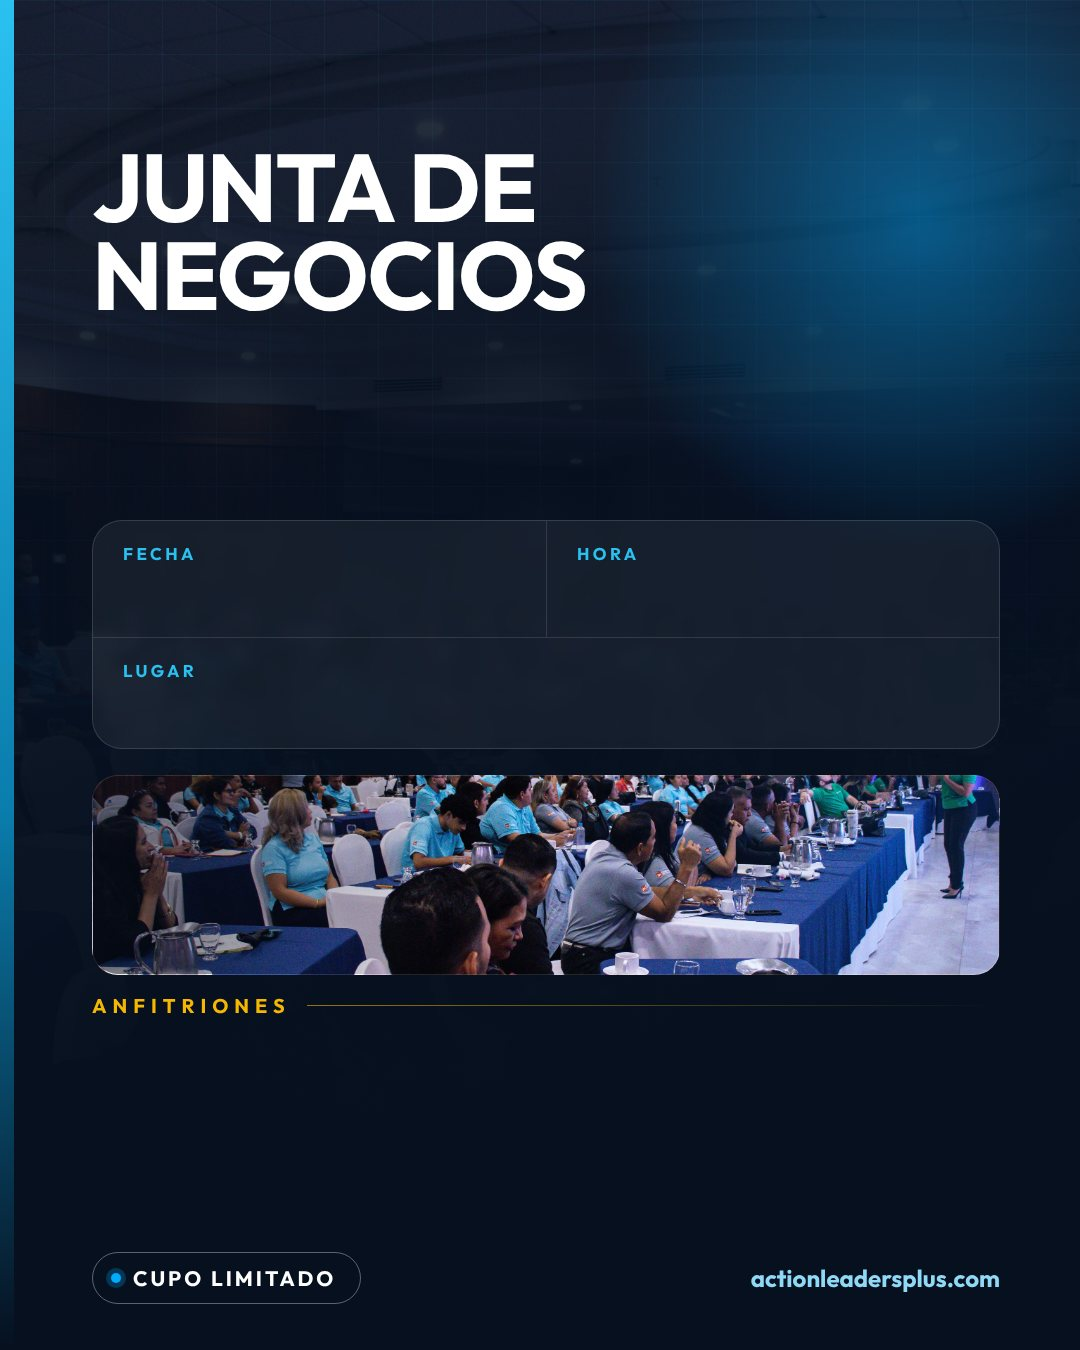
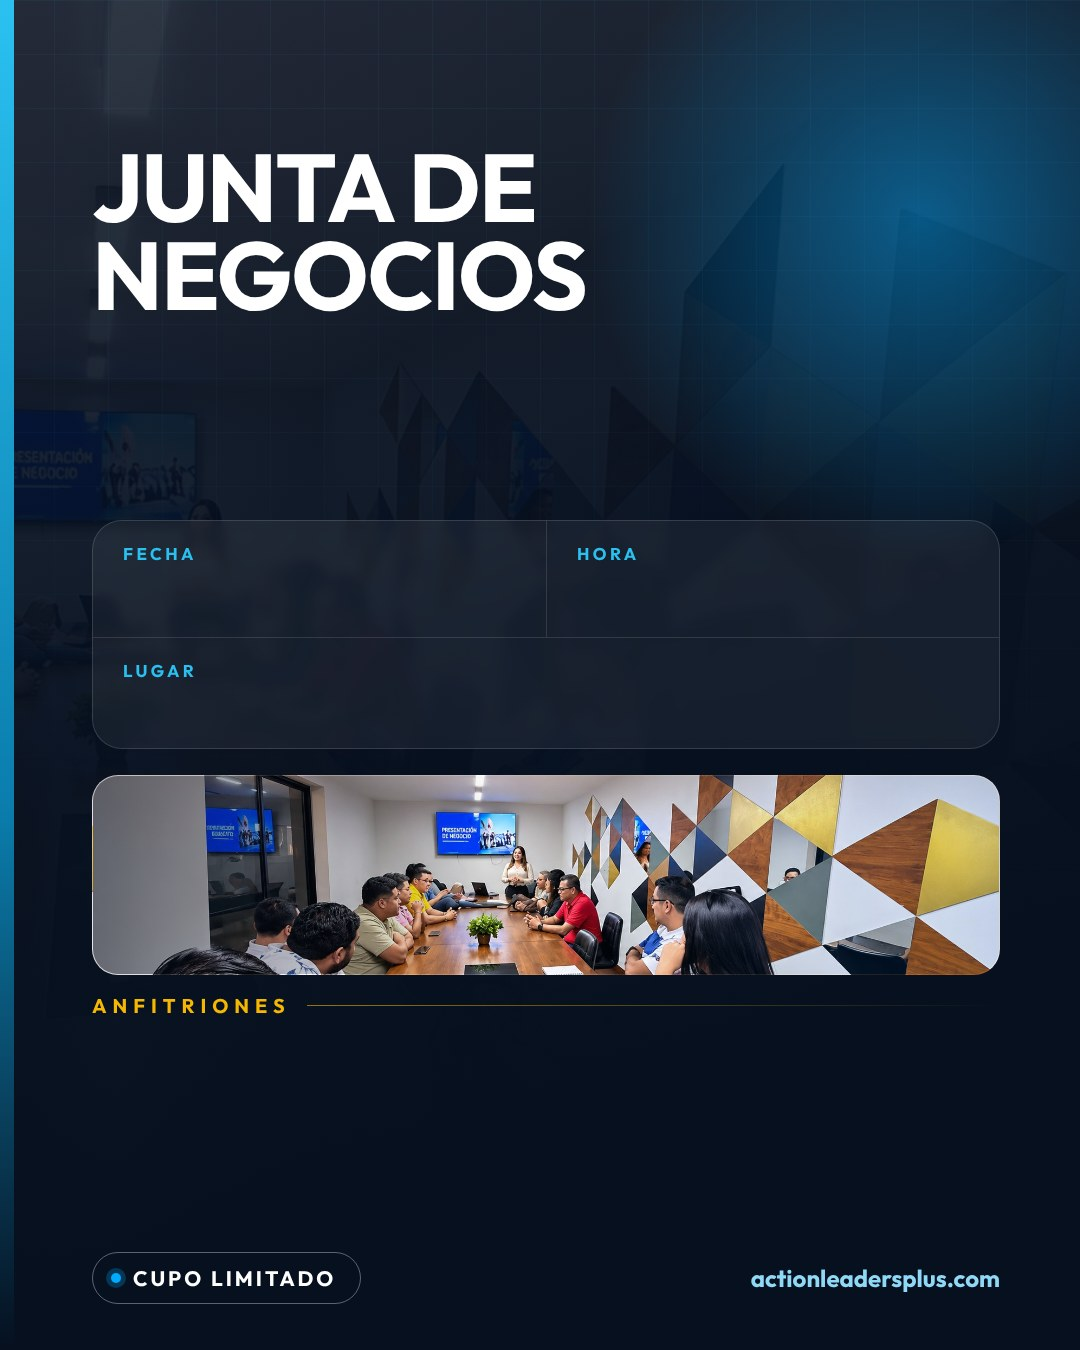
Junta de negocios: nueva foto (Opción 1) y botones Opción 1/2/3
Claude-Session: https://claude.ai/code/session_01Ap9s35NhKbdW3Dyth6SLE7

Changed region(s): [[0.0611, 0.56, 0.9472, 0.7467], [0.0917, 0.0, 0.1528, 0.0311]]

diff --git a/index.html b/index.html
@@ -4939,7 +4939,7 @@ async function evaCirc(g,src,cx,cy,r,ring,rc,dark,nm){const im=src?await imgLoad
 function evaRR(g,x,y,w,h,r){g.beginPath();g.roundRect(x,y,w,h,r)}
 const EVA_SUB=["Descubra cómo viajar más, gastar menos","y emprender desde su celular"];
 async function evaCanvas(o){await evaFonts();const W=1080,H=1350,cv=document.createElement("canvas");cv.width=W;cv.height=H;const g=cv.getContext("2d");
-  const bg=await imgLoad("media/eventos/"+(o.tipo==="gran"?"g":"j")+(o.dis||1)+".jpg?v=2");if(bg)g.drawImage(bg,0,0,W,H);else{g.fillStyle="#07101F";g.fillRect(0,0,W,H)}
+  const bg=await imgLoad("media/eventos/"+(o.tipo==="gran"?"g":"j")+(o.dis||1)+".jpg?v="+(o.tipo==="gran"?"2":"3"));if(bg)g.drawImage(bg,0,0,W,H);else{g.fillStyle="#07101F";g.fillRect(0,0,W,H)}
   const OB="ALO, Figtree, sans-serif",OR="ALOR, Figtree, sans-serif",BG="ALBG, 'Bricolage Grotesque', sans-serif",modo=o.modo==="virtual"?"VIRTUAL":"PRESENCIAL",city=String(o.ciudad||(o.modo==="virtual"?"EN LÍNEA":"")).toUpperCase();
   const lid=(o.lid||[]).filter(Boolean),hora=o.hora+(o.flag?" "+o.flag:""),lug=o.modo==="virtual"?"🎥 En vivo por Zoom":"📍 "+(o.lugar||"");
   const grad=(x0,x1)=>{const q=g.createLinearGradient(x0,0,x1,0);q.addColorStop(0,"#8FE3FF");q.addColorStop(.5,"#2AC1F1");q.addColorStop(1,"#FFFFFF");return q};
@@ -5072,7 +5072,7 @@ function rsvpInline(e){const c=$("#evaRsL"),R=rsvpN[e.id];if(!c||!R||!R.L||!R.L.
 function rsvpNum(r,L,e){if(!L||!e||!rsvpTodo(e))return 0;const A=L.slice().sort((a,b)=>(a.t||0)-(b.t||0));const i=A.findIndex(x=>x.id===r.id);return i>=0?i+1:0}
 async function rsvpTkCanvas(e,r,num){await flFonts();const W=1080,H=1920,cv=document.createElement("canvas");cv.width=W;cv.height=H;const g=cv.getContext("2d"),gran=e.tipo==="gran",ds=[1,2,3].includes(+e.dis)?+e.dis:1;
   const OB="ALO, Figtree, sans-serif",OR="ALOR, Figtree, sans-serif",BE="'Bebas Neue', Impact, sans-serif";g.fillStyle="#071526";g.fillRect(0,0,W,H);
-  const bg=await imgLoad("media/eventos/f-"+(gran?"g":"j")+ds+".jpg");if(bg){const sc=Math.max(W/bg.width,H*.62/bg.height),bw=bg.width*sc,bh=bg.height*sc;g.drawImage(bg,(W-bw)/2,0,bw,bh)}
+  const bg=await imgLoad("media/eventos/f-"+(gran?"g":"j")+ds+".jpg"+(gran?"":"?v=3"));if(bg){const sc=Math.max(W/bg.width,H*.62/bg.height),bw=bg.width*sc,bh=bg.height*sc;g.drawImage(bg,(W-bw)/2,0,bw,bh)}
   let gr=g.createLinearGradient(0,0,0,H);gr.addColorStop(0,"rgba(7,21,38,.55)");gr.addColorStop(.38,"rgba(7,21,38,.88)");gr.addColorStop(.62,"#071526");gr.addColorStop(1,"#071526");g.fillStyle=gr;g.fillRect(0,0,W,H);
   const lg=await imgLoad("media/logo-mas.png");if(lg){const lh=64,lw=lg.width*lh/lg.height;g.drawImage(lg,(W-lw)/2,150,lw,lh)}
   g.textAlign="center";g.font="700 34px "+OB;const okT="ASISTENCIA CONFIRMADA",okW=evaSpW(g,okT,8);g.fillStyle="#16A34A";g.beginPath();g.arc(W/2-okW/2-30,312,31,0,7);g.fill();g.fillStyle="#fff";g.font="700 36px "+OB;g.fillText("✓",W/2-okW/2-30,325);g.fillStyle="#4ADE80";g.font="700 34px "+OB;evaSp(g,okT,W/2+22,324,8,"center");
@@ -5128,7 +5128,7 @@ async function abrirCrearEva(){if(!store.db||!(regDoc&&regDoc.registro)){toast("
    <div class="field"><label for="evFo">Link del formulario de Google</label><input class="inp" id="evFo" placeholder="https://forms.gle/..."></div>
    <div id="evVisW" hidden><label class="small" style="font-weight:700">¿Quién lo ve?</label><div class="seg" id="evV"><button type="button" aria-selected="true" data-v="abierto">🔓 Abierto</button><button type="button" aria-selected="false" data-v="cerrado">🔒 Cerrado</button></div><p class="small muted" id="evVt" style="margin:4px 0 0">Todos los socios lo ven en su Agenda.</p></div>
    <div id="evJv"><label class="small" style="font-weight:700">¿Quién la ve?</label><div class="seg" id="evJV"><button type="button" aria-selected="true" data-v="junta">👥 Mi línea</button><button type="button" aria-selected="false" data-v="abierto">🌎 Todos los socios</button></div><p class="small muted" id="evJVt" style="margin:4px 0 0">La ven usted, su línea de arriba, su línea de abajo y los anfitriones.</p></div>
-   <div class="field"><label>Foto del flyer</label><div class="seg" id="evD"><button type="button" aria-selected="true" data-v="1">🏛 Salón</button><button type="button" aria-selected="false" data-v="2">☕ Café</button><button type="button" aria-selected="false" data-v="3">🛋 Sala</button></div></div>
+   <div class="field"><label>Foto del flyer</label><div class="seg" id="evD"><button type="button" aria-selected="true" data-v="1">Opción 1</button><button type="button" aria-selected="false" data-v="2">Opción 2</button><button type="button" aria-selected="false" data-v="3">Opción 3</button></div></div>
    <button class="btn ghost" id="evPrev" style="width:100%">👁 Ver el flyer</button>
    <button class="btn" id="evOk" style="width:100%">Publicar y avisar a los líderes</button><button class="btn ghost" data-close style="width:100%">Cancelar</button>`,()=>{
     const segOn=(id,fn)=>{$("#"+id).onclick=x=>{const b=x.target.closest("[data-v]");if(!b||b.disabled)return;$("#"+id).querySelectorAll("button").forEach(y=>y.setAttribute("aria-selected",y===b));fn(b.dataset.v)}};
@@ -5136,7 +5136,7 @@ async function abrirCrearEva(){if(!store.db||!(regDoc&&regDoc.registro)){toast("
       $("#evSel").innerHTML=sel.map((x,i)=>`<div class="row between" style="gap:8px;border:1px solid var(--line);border-radius:12px;padding:6px 8px">${avHTML(x.n,false,false,x.uid)}<span class="grow" style="min-width:0"><b style="font-weight:600;display:block">${esc(nv(x.n))}</b><span class="small muted">${esc(lab(i))} · ${esc(x.r)}</span></span>${i>=nE&&tipo==="gran"?`<button type="button" class="btn sm ghost" data-evup="${i}" title="Hacer invitado especial">⭐</button>`:""}<button type="button" class="btn sm ghost" data-evx="${i}" aria-label="Quitar">✕</button></div>`).join("")||`<p class="small muted" style="margin:0">Agregue al menos una persona.</p>`;
       $("#evQ").hidden=sel.length>=max()};
     const sug=()=>{const Q=nrmN(q);$("#evSug").innerHTML=Q.length<2?"":P.filter(x=>!sel.some(y=>y.uid===x.uid)&&nrmN(x.n).includes(Q)).slice(0,6).map(x=>`<button type="button" class="ep-it" data-evp="${esc(x.uid)}">${avHTML(x.n,false,false,x.uid)}<span class="grow" style="min-width:0;text-align:left"><b style="font-weight:600;display:block">${esc(nv(x.n))}</b><span class="small muted">${esc(x.r)}</span></span></button>`).join("")||`<p class="small muted" style="margin:6px 0">No encontramos a esa persona en la app.</p>`};
-    const evDLab=()=>{const L=tipo==="gran"?["🎤 Escenario","🏛 Salón","✨ Salón 2"]:["🏛 Salón","☕ Café","🛋 Sala"];$("#evD").querySelectorAll("button").forEach((b,i)=>b.textContent=L[i])};
+    const evDLab=()=>{const L=tipo==="gran"?["🎤 Escenario","🏛 Salón","✨ Salón 2"]:["Opción 1","Opción 2","Opción 3"];$("#evD").querySelectorAll("button").forEach((b,i)=>b.textContent=L[i])};
     segOn("evT",v=>{tipo=v;if(sel.length>max())sel=sel.slice(0,max());$("#evVisW").hidden=tipo!=="gran";$("#evJv").hidden=tipo==="gran";$("#evNEw").hidden=tipo!=="gran";evDLab();pintaSel()});segOn("evNE",v=>{nE=+v;if(sel.length>max())sel=sel.slice(0,max());pintaSel()});
     segOn("evM",v=>{modo=v;$("#evPres").hidden=v==="virtual";$("#evVir").hidden=v!=="virtual"});
     segOn("evJV",v=>{jvis=v;$("#evJVt").textContent=v==="abierto"?"Todos los socios la ven en su Agenda.":"La ven usted, su línea de arriba, su línea de abajo y los anfitriones."});
@@ -6937,7 +6937,7 @@ window.addEventListener("fb-auth",e=>{location.reload()});
 })();
 </script>
 <script>
-(function(){var V="20261107160310";var busy=false,pend=null;
+(function(){var V="20261107162156";var busy=false,pend=null;
  function go(t){var u=location.pathname+"?v="+t+location.hash;try{location.replace(u)}catch(e){location.reload()}}
  function idle(){var sh=document.getElementById("sheet"),w=document.getElementById("wel");var a=document.activeElement;
   return (!sh||sh.hidden)&&(!w||w.hidden)&&!(a&&/INPUT|TEXTAREA|SELECT/.test(a.tagName))}

diff --git a/tools/flyer/evento/v2/j1_7.html b/tools/flyer/evento/v2/j1_7.html
@@ -1,0 +1,42 @@
+<!doctype html><html><head><meta charset="utf-8"><style>
+@font-face{font-family:OB;src:url(../../../../media/fonts/Outfit-Bold.ttf)}@font-face{font-family:OR;src:url(../../../../media/fonts/Outfit-Regular.ttf)}@font-face{font-family:BG;src:url(../../../../media/fonts/BricolageGrotesque-Bold.ttf)}
+*{box-sizing:border-box;margin:0;padding:0}
+body{width:1080px;height:1350px;overflow:hidden;position:relative;background:#06101F;color:#fff;font-family:OR}
+.bg{position:absolute;inset:0;background:url(p7.jpg) 70% center/cover;opacity:.38}
+.sh{position:absolute;inset:0;background:linear-gradient(160deg,rgba(6,16,31,.55) 0%,rgba(6,16,31,.92) 45%,#06101F 75%)}
+.grid{position:absolute;inset:0;background-image:linear-gradient(rgba(42,193,241,.06) 1px,transparent 1px),linear-gradient(90deg,rgba(42,193,241,.06) 1px,transparent 1px);background-size:54px 54px;mask-image:linear-gradient(180deg,#000,transparent 70%)}
+.beam{position:absolute;right:-220px;top:-160px;width:760px;height:760px;background:radial-gradient(circle,rgba(0,170,255,.45),transparent 62%)}
+.bar{position:absolute;left:0;top:0;bottom:0;width:14px;background:linear-gradient(180deg,#2AC1F1,#0A7DAD 60%,transparent)}
+.w{position:relative;height:100%;padding:70px 80px 52px 92px;display:flex;flex-direction:column}.w>*{flex-shrink:0}
+.pill{align-self:flex-start;font-family:OB;font-size:20px;letter-spacing:.28em;background:#F5B700;color:#06101F;padding:9px 20px;border-radius:999px}
+h1{font-family:OB;font-size:96px;line-height:.92;letter-spacing:-.02em;margin-top:30px;text-transform:uppercase}
+.city{font-family:OB;font-size:46px;letter-spacing:.3em;margin-top:22px;background:linear-gradient(90deg,#8FE3FF,#2AC1F1 55%,#fff);-webkit-background-clip:text;color:transparent}
+.sub{font-size:26px;line-height:1.35;opacity:.86;margin-top:18px;max-width:720px;text-wrap:balance}
+.card{margin-top:32px;border-radius:30px;background:rgba(255,255,255,.06);border:1px solid rgba(255,255,255,.14);backdrop-filter:blur(6px);display:grid;grid-template-columns:1fr 1fr;overflow:hidden}
+.card div{padding:22px 30px}.card div+div{border-left:1px solid rgba(255,255,255,.12)}
+.card .full{grid-column:1/3;border-left:0!important;border-top:1px solid rgba(255,255,255,.12)}
+.card small{display:block;font-family:OB;font-size:17px;letter-spacing:.2em;color:#2AC1F1}
+.card b{display:block;font-family:BG;font-weight:400;font-size:38px;margin-top:6px}
+.card .full b{font-size:32px}.card .full span{font-size:22px;opacity:.75;margin-left:8px}
+.an{margin-top:auto;padding-top:18px}.foto{margin-top:26px;height:200px;border-radius:26px;background:url(p7.jpg) center 16%/cover;position:relative;overflow:hidden;border:1px solid rgba(255,255,255,.12)}.foto::after{content:"";position:absolute;inset:0;background:linear-gradient(90deg,rgba(6,16,31,.55),rgba(6,16,31,0) 45%,rgba(0,120,255,.15))}
+.lab{display:flex;align-items:center;gap:16px;font-family:OB;font-size:20px;letter-spacing:.3em;color:#F5B700}.lab::after{content:"";flex:1;height:1px;background:linear-gradient(90deg,rgba(245,183,0,.6),transparent)}
+.hosts{display:flex;gap:20px;margin-top:24px}
+.h{display:flex;flex-direction:column;align-items:center;text-align:center;gap:12px;flex:1}
+.h img{width:112px;height:112px;border-radius:50%;object-fit:cover;border:3px solid #2AC1F1;box-shadow:0 10px 24px rgba(0,0,0,.5);flex:none}
+.h b{display:block;font-family:BG;font-weight:400;font-size:25px;line-height:1.1}.h em{display:block;font-style:normal;font-size:17px;color:#7DD3F5;margin-top:4px}
+.foot{display:flex;justify-content:space-between;align-items:center;margin-top:34px}
+.cupo{display:flex;align-items:center;gap:12px;border:1.5px solid rgba(255,255,255,.35);border-radius:999px;padding:12px 24px 12px 18px;font-family:OB;font-size:21px;letter-spacing:.14em}
+.cupo i{width:10px;height:10px;border-radius:50%;background:#00AAFF;box-shadow:0 0 0 5px rgba(0,170,255,.25)}
+.url{font-family:OB;font-size:24px;color:#8FD9F6}
+.pill,.city,.card b,.hosts,.sub{visibility:hidden!important}.foto{background-position:center 64%!important}</style></head><body><div class="bg"></div><div class="sh"></div><div class="grid"></div><div class="beam"></div><div class="bar"></div>
+<div class="w">
+ <div class="pill">PRESENCIAL</div>
+ <h1>Junta de<br>negocios</h1>
+ <div class="city">SAN PEDRO SULA</div>
+ <p class="sub">Descubra cómo viajar más, gastar menos y generar ingresos desde su celular</p>
+ <div class="card"><div><small>FECHA</small><b>Sábado 7 de nov.</b></div><div><small>HORA</small><b>3:00 pm 🇭🇳</b></div><div class="full"><small>LUGAR</small><b>📍 Hotel Copantl<span>Salón Ejecutivo</span></b></div></div>
+ <div class="foto"></div>
+ <div class="an"><div class="lab">ANFITRIONES</div>
+  <div class="hosts"><div class="h"><img src="n-josue-delgado.jpg"><div><b>Josué Delgado</b><em>Marketing Director</em></div></div><div class="h"><img src="n-flor-reyes.jpg"><div><b>Flor Reyes</b><em>Marketing Director</em></div></div><div class="h"><img src="n-zamir-fuentes.jpg"><div><b>Zamir Fuentes</b><em>Marketing Director</em></div></div></div></div>
+ <div class="foot"><div class="cupo"><i></i>CUPO LIMITADO</div><span class="url">actionleadersplus.com</span></div>
+</div></body></html>

diff --git a/evento.html b/evento.html
@@ -61,7 +61,7 @@ const gran=E.tp==="gran",tipo=gran?"Gran evento de negocios":"Junta de negocios"
 const [hh,mm]=String(E.h||"00:00").split(":").map(Number),h12=(hh%12||12)+":"+String(mm).padStart(2,"0")+(hh<12?" a.m.":" p.m.");
 const fechaL=DIA[fd.getDay()]+" "+D+" de "+MES[M-1],fechaC=DIA[fd.getDay()].slice(0,3).replace(/^./,c=>c.toUpperCase())+" "+D+" de "+MES[M-1].slice(0,3)+".";
 const dn=E.dn||"",dn1=dn.split(" ")[0]||"";
-const ds=[1,2,3].includes(+E.ds)?+E.ds:1,bg="media/eventos/f-"+(gran?"g":"j")+ds+".jpg";
+const ds=[1,2,3].includes(+E.ds)?+E.ds:1,bg="media/eventos/f-"+(gran?"g":"j")+ds+".jpg"+(gran?"":"?v=3");
 document.title=tipo+" · Confirme su asistencia";
 $("#app").innerHTML=`<div class="hero" style="background-image:url('${bg}')"><img class="logo" src="media/logo-mas.png" alt="Action Leaders+"><div class="hc"><span class="pill">${E.z?"VIRTUAL":"PRESENCIAL"}</span><h1>${gran?"GRAN EVENTO <span>DE NEGOCIOS</span>":"JUNTA DE <span>NEGOCIOS</span>"}</h1><div class="city">${esc(E.c||(E.z?"En línea":""))}</div></div></div>
 <div class="w">

diff --git a/CLAUDE.md b/CLAUDE.md
@@ -573,3 +573,4 @@ Cada vez que se publique una actualización de la app, hacer un flyer 1080×1350
 - Mi equipo (loadMios) caché 60 min. Fotos: lista completa cada 24 h (fotosDelta sigue trayendo las nuevas con t; OJO: escrituras a fotos sin t, como pub/oculto/linea, se ven al refrescar las 24 h).
 - Medición 6–7 nov antes del cambio: ~126 mil lecturas y 12 mil escrituras en 24 h; costo del mes $0.16.
 - (7 nov) Firma de la historia del día (hgFirma): SIN "COMPARTE". Nombre (46 px, se achica si no cabe) y debajo la bio hgBio() = "{título} · Action Leaders+" (profile.histFrase; si ya dice Action Leaders se deja igual; vacío → "Negocio digital · Action Leaders+", neutro porque la app no sabe el género). Perfil › Mis datos › "🏷 Mi título en mis historias" con chips HIST_FRASES (Emprendedor/a digital, Empresario/a digital, Constructor/a de sistemas, Líder de equipo).
+- (7 nov) Junta de negocios: fotos del flyer = "Opción 1/2/3" (antes Salón/Café/Sala). Opción 1 = foto nueva de Edwin (sala de juntas con la presentación en pantalla; fuente tools/flyer/evento/v2/p7.jpg + j1_7.html → media/eventos/j1.jpg y f-j1.jpg para evento.html). Se cargan con ?v=3 (gran evento sigue ?v=2).
